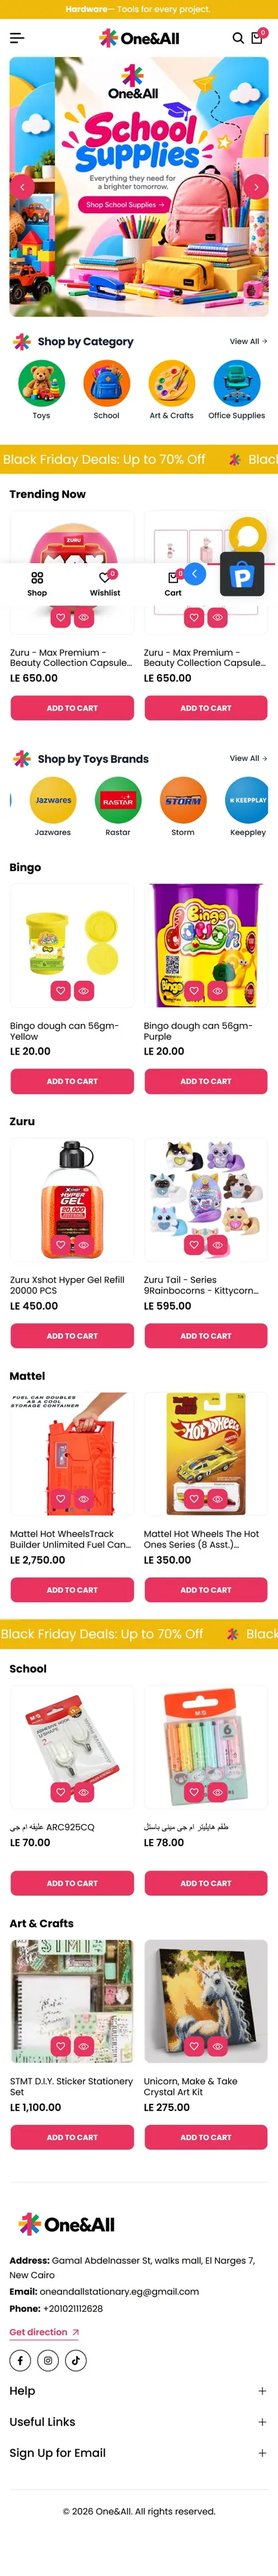
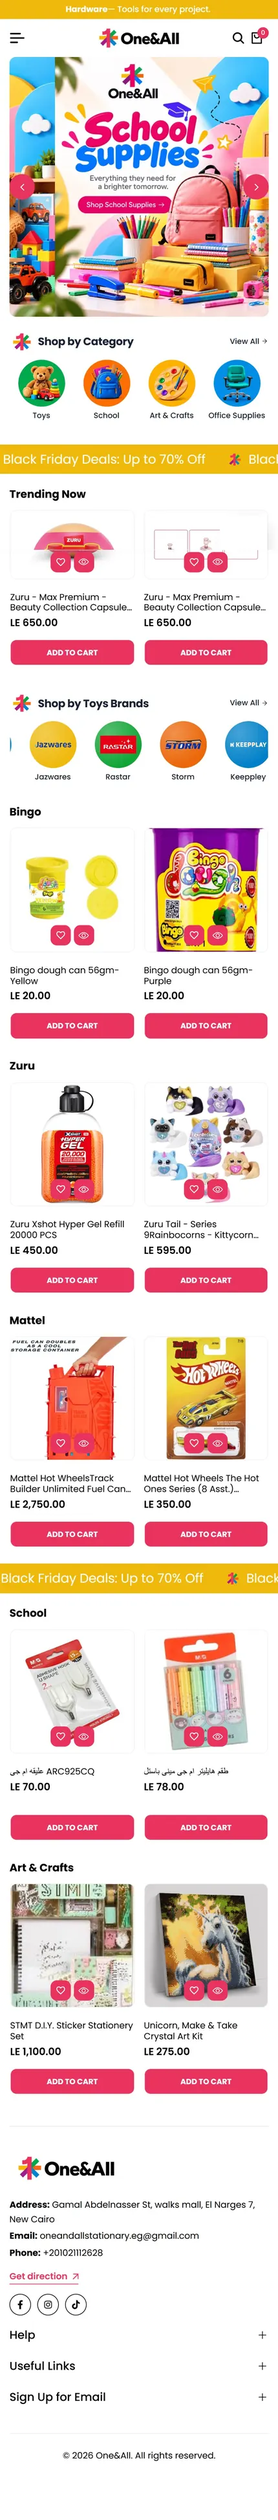
Mockups: synced laptop/phone scroll, fixed One&All mobile toolbar
- Phone and laptop screens scroll together at the same pace
- One&All mobile toolbar removed from the screenshot and overlaid as a fixed bottom bar

Claude-Session: https://claude.ai/code/session_01AoAcPzSq5CzwgsvsAXgNBF

diff --git a/js/components/shopifyProjects.js b/js/components/shopifyProjects.js
@@ -13,6 +13,7 @@ const shopifyProjects = [
     typeKey: "work.oneandall",
     desktop: "/assets/projects/oneandall-desktop.webp",
     mobile: "/assets/projects/oneandall-mobile.webp",
+    mobileBar: "/assets/projects/oneandall-mobile-bar.webp", // sticky bottom toolbar, stays fixed while the page scrolls
     rating: 5,
     quoteKey: "testimonials.oneandall",
     featured: true, // shown in the hero
@@ -42,7 +43,9 @@ function getShopifyMockupTemplate(p) {
         <div class="svc-laptop__base"></div>
       </div>
       <div class="svc-phone">
-        <div class="svc-screen svc-screen--mobile" style="background-image:url('${p.mobile}')"></div>
+        <div class="svc-screen svc-screen--mobile" style="background-image:url('${p.mobile}')">
+          ${p.mobileBar ? `<img class="svc-screen__bar" src="${p.mobileBar}" alt="" loading="lazy">` : ""}
+        </div>
       </div>
     </div>`;
 }

diff --git a/css/pages/service.css b/css/pages/service.css
@@ -455,9 +455,21 @@ body.rtl .svc-work-nav i {
     animation-play-state: paused;
 }
 
+/* Phone and laptop scroll together at the same pace */
 .svc-screen--mobile {
-    animation-duration: 15s;
-    animation-delay: -3s;
+    position: relative;
+    overflow: hidden;
+}
+
+/* Fixed bottom toolbar of a store (stays put while the page scrolls) */
+.svc-screen__bar {
+    position: absolute;
+    left: 0;
+    right: 0;
+    bottom: 0;
+    width: 100%;
+    height: auto;
+    box-shadow: 0 -4px 10px rgba(0, 0, 0, 0.08);
 }
 
 .svc-mockup.is-playing .svc-screen {
